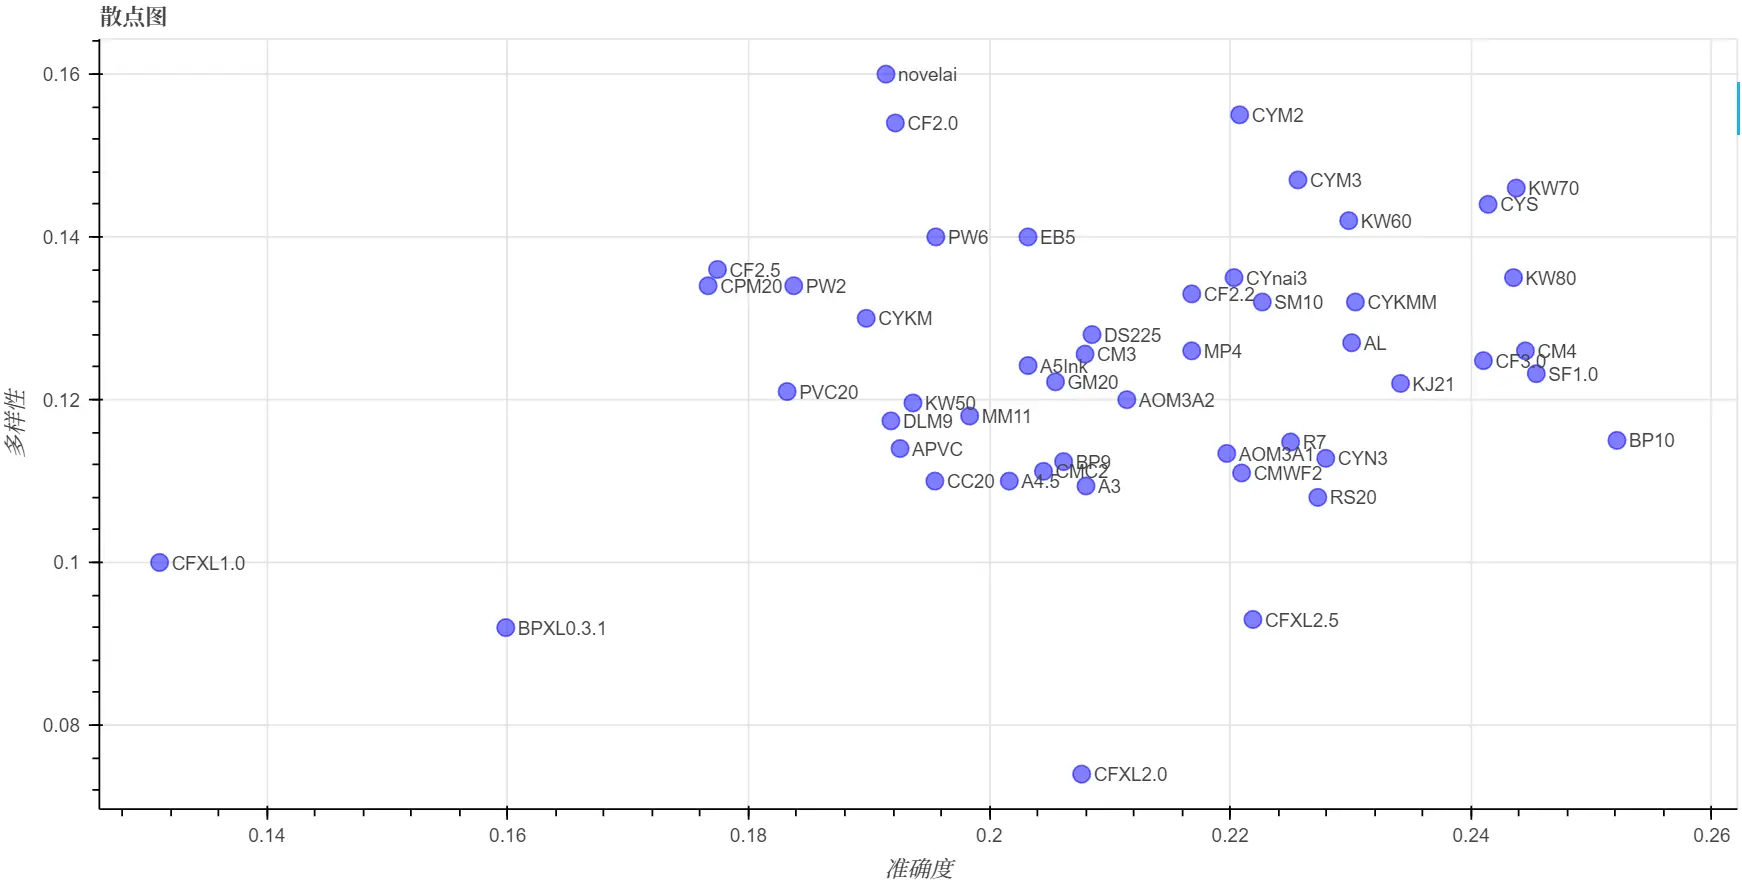
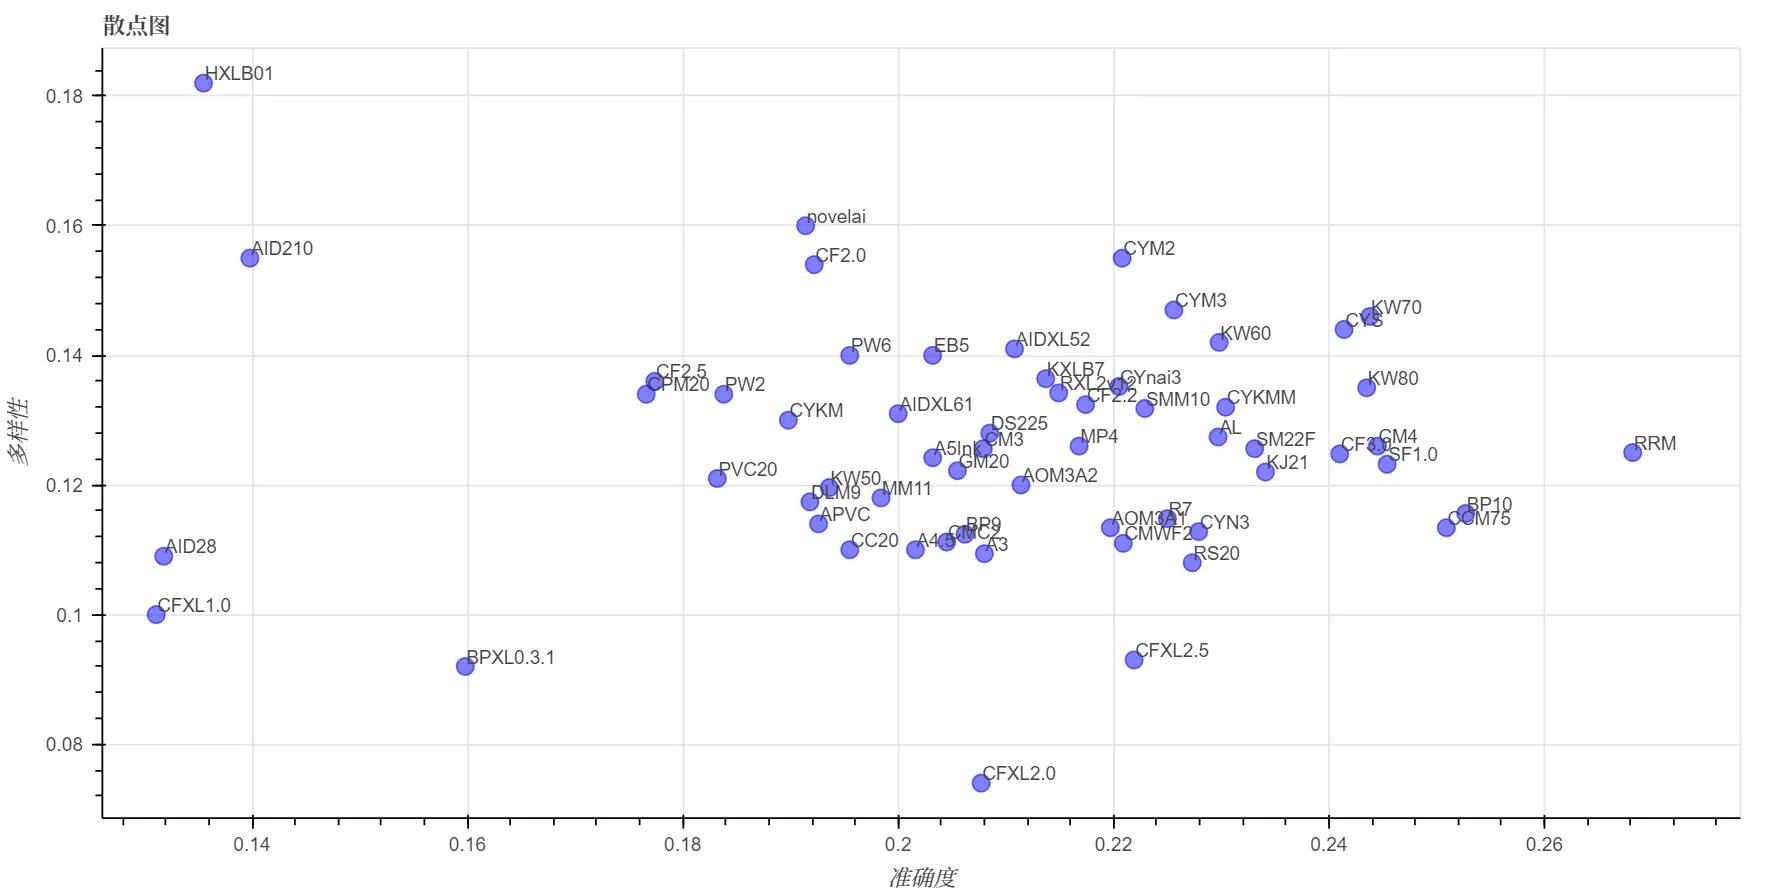
先更新1下指标

diff --git a/readme.md b/readme.md
@@ -26,48 +26,47 @@
 <sub>
 <sub>
 
-|                          | A5Ink     | AL        | AOM3A1    | BP10      | CF3.0     | CM4       | CYS       | KW80    | MM11   | SF1.0     | SM10      | novelai   | BPXL0.3.1   | CFXL2.5   |
-|:-------------------------|:----------|:----------|:----------|:----------|:----------|:----------|:----------|:--------|:-------|:----------|:----------|:----------|:------------|:----------|
-| 艺术破格                 | 0.183     | 0.161     | 0.112     | **0.228** | 0.219     | 0.179     | 0.152     | 0.125   | 0.098  | **0.237** | 0.174     | **0.259** | 0.156       | 0.214     |
-| 人物-动作                | 0.504     | 0.543     | 0.522     | **0.593** | **0.569** | 0.55      | **0.568** | 0.495   | 0.495  | 0.556     | 0.521     | 0.488     | 0.442       | 0.388     |
-| 人物-全身装饰            | 0.664     | 0.602     | 0.734     | **0.773** | **0.758** | 0.719     | **0.789** | 0.672   | 0.594  | 0.695     | 0.625     | 0.609     | 0.688       | 0.727     |
-| 人物-胸部                | 0.457     | 0.47      | **0.541** | **0.498** | **0.5**   | 0.451     | 0.471     | 0.417   | 0.439  | 0.455     | 0.443     | 0.478     | 0.304       | 0.328     |
-| 人物-衣装                | 0.758     | 0.784     | 0.79      | **0.811** | **0.809** | **0.809** | 0.78      | 0.718   | 0.774  | 0.792     | 0.782     | 0.755     | 0.753       | 0.752     |
-| 人物-摆位                | 0.555     | 0.55      | 0.53      | **0.652** | **0.665** | 0.578     | 0.608     | 0.568   | 0.49   | **0.662** | 0.53      | 0.598     | 0.575       | 0.555     |
-| 人物-耳朵                | 0.845     | 0.848     | 0.842     | 0.839     | **0.884** | **0.866** | 0.815     | 0.771   | 0.818  | **0.914** | 0.836     | 0.821     | 0.821       | 0.765     |
-| 人物-面部                | 0.502     | 0.49      | 0.476     | **0.578** | **0.592** | 0.527     | 0.481     | 0.485   | 0.423  | **0.53**  | 0.501     | 0.521     | 0.315       | 0.38      |
-| 人物-头发                | 0.647     | 0.62      | 0.594     | **0.693** | **0.693** | **0.648** | 0.567     | 0.56    | 0.586  | 0.61      | 0.624     | 0.647     | 0.553       | 0.52      |
-| 人物-头部饰品            | 0.751     | 0.757     | 0.719     | **0.831** | **0.831** | 0.794     | 0.786     | 0.739   | 0.748  | **0.836** | 0.803     | 0.71      | 0.611       | 0.612     |
-| 人物-类型                | 0.682     | 0.67      | 0.664     | **0.748** | **0.71**  | 0.672     | 0.692     | 0.631   | 0.626  | **0.702** | 0.678     | 0.659     | 0.673       | 0.648     |
-| 人物-下身装饰            | 0.71      | 0.726     | **0.749** | **0.76**  | **0.781** | 0.747     | 0.742     | 0.713   | 0.696  | 0.74      | 0.733     | 0.708     | 0.598       | 0.601     |
-| 人物-脖子                | 0.789     | 0.816     | 0.807     | **0.836** | **0.829** | **0.845** | 0.77      | 0.743   | 0.801  | 0.774     | 0.78      | 0.799     | 0.684       | 0.718     |
-| 人物-品控                | -         | -         | -         | -         | -         | -         | -         | -       | -      | -         | -         | -         | -           | -         |
-| 人物-鞋袜                | 0.707     | 0.726     | 0.71      | **0.763** | **0.774** | **0.763** | 0.738     | 0.717   | 0.699  | 0.757     | 0.737     | 0.691     | 0.653       | 0.614     |
-| 人物-上身装饰            | 0.755     | 0.798     | 0.765     | **0.819** | **0.812** | **0.799** | 0.775     | 0.743   | 0.78   | 0.786     | 0.766     | 0.73      | 0.698       | 0.704     |
-| 人文景观-建筑物     | 0.938     | **0.966** | 0.903     | 0.96      | 0.886     | 0.932     | 0.955     | 0.949   | 0.881  | **0.966** | 0.926     | 0.903     | 0.943       | **0.972** |
-| 人文景观-谷制品     | 0.688     | 0.713     | 0.713     | 0.825     | 0.8       | 0.787     | 0.938     | 0.787   | 0.738  | **1.0**   | 0.775     | 0.575     | **1.0**     | **1.0**   |
-| 人文景观-饮料       | 0.836     | 0.859     | 0.781     | 0.898     | 0.812     | 0.844     | **0.914** | 0.844   | 0.883  | **0.938** | 0.82      | 0.656     | **0.914**   | 0.852     |
-| 人文景观-水果       | 0.868     | 0.868     | 0.889     | 0.847     | 0.889     | 0.896     | **0.931** | 0.861   | 0.826  | **0.986** | 0.917     | 0.833     | **0.993**   | 0.917     |
-| 人文景观-主食       | 0.762     | 0.787     | 0.725     | 0.825     | 0.8       | 0.775     | **0.875** | 0.825   | 0.675  | 0.825     | 0.775     | 0.713     | **0.838**   | **1.0**   |
-| 人文景观-肉类 | 0.922     | 0.734     | 0.906     | 0.891     | 0.984     | 0.953     | 0.906     | 0.766   | 0.844  | **1.0**   | 0.906     | 0.781     | **1.0**     | **1.0**   |
-| 人文景观-零食   | 0.8       | 0.819     | 0.722     | **0.878** | 0.859     | 0.825     | 0.863     | 0.85    | 0.772  | **0.894** | 0.831     | 0.688     | **0.875**   | 0.806     |
-| 人文景观-蔬菜 | 0.938     | 0.906     | 0.896     | **0.969** | 0.938     | 0.885     | **0.979** | 0.938   | 0.844  | **0.979** | 0.958     | 0.958     | 0.875       | 0.667     |
-| 人文景观-室内       | 0.991     | **1.0**   | 0.991     | **1.0**   | 0.92      | 0.991     | **1.0**   | 0.973   | 0.964  | 0.991     | 0.973     | 0.946     | **1.0**     | **1.0**   |
-| 人文景观-室外       | **1.0**   | **1.0**   | 0.958     | **1.0**   | **1.0**   | **1.0**   | **1.0**   | **1.0** | 0.979  | **1.0**   | 0.979     | 0.969     | **1.0**     | 0.969     |
-| 构图-背景                | 0.861     | 0.885     | 0.803     | **0.933** | 0.894     | **0.904** | **0.899** | 0.846   | 0.817  | 0.827     | 0.885     | 0.808     | 0.856       | 0.851     |
-| 构图-打码方式            | 0.165     | 0.239     | **0.392** | 0.216     | 0.239     | 0.148     | **0.341** | 0.188   | 0.153  | 0.21      | 0.188     | 0.216     | 0.006       | **0.273** |
-| 构图-色彩                | 0.442     | 0.388     | 0.304     | **0.721** | **0.704** | 0.517     | 0.421     | 0.338   | 0.392  | 0.492     | 0.496     | 0.558     | 0.571       | **0.662** |
-| 构图-构图方式            | 0.331     | 0.412     | 0.35      | **0.475** | 0.406     | **0.45**  | **0.45**  | 0.331   | 0.287  | 0.406     | 0.388     | 0.312     | 0.125       | 0.3       |
-| 构图-制图特效            | 0.551     | 0.643     | 0.467     | **0.713** | **0.776** | 0.643     | 0.662     | 0.577   | 0.555  | **0.68**  | 0.544     | 0.636     | 0.518       | 0.607     |
-| 构图-图片类型            | **0.476** | 0.423     | 0.363     | 0.455     | 0.42      | 0.435     | 0.449     | 0.414   | 0.348  | 0.384     | **0.479** | **0.461** | 0.14        | 0.321     |
-| 构图-视角                | 0.738     | 0.7       | 0.667     | **0.808** | **0.8**   | 0.742     | 0.75      | 0.717   | 0.683  | **0.804** | 0.738     | 0.758     | 0.7         | 0.746     |
-| 构图-画风                | 0.276     | 0.172     | 0.24      | 0.344     | **0.354** | 0.25      | 0.286     | 0.24    | 0.167  | 0.219     | 0.255     | **0.375** | 0.307       | **0.38**  |
-| 物品                     | 0.831     | 0.803     | 0.844     | **0.925** | **0.922** | **0.938** | 0.866     | 0.791   | 0.812  | 0.881     | 0.894     | 0.841     | 0.844       | 0.766     |
-| 自然景观-花卉            | 0.895     | 0.92      | 0.855     | **0.989** | 0.943     | 0.972     | 0.949     | 0.889   | 0.949  | **0.983** | 0.943     | 0.761     | 0.974       | **1.0**   |
-| 自然景观-室外       | 0.943     | 0.953     | 0.927     | **1.0**   | 0.995     | 0.964     | 0.958     | 0.979   | 0.943  | 0.99      | 0.943     | 0.953     | **1.0**     | **1.0**   |
-| 自然景观-气象       | 0.891     | 0.922     | 0.87      | **0.974** | 0.87      | 0.885     | 0.906     | 0.885   | 0.885  | 0.901     | 0.87      | 0.807     | **1.0**     | **0.99**  |
-| 限制级-成年限定          | 0.318     | 0.296     | **0.572** | **0.418** | 0.41      | 0.233     | **0.432** | 0.277   | 0.257  | 0.383     | 0.279     | 0.333     | 0.083       | 0.37      |
-| 限制级-限制级            | 0.562     | 0.495     | **0.663** | 0.594     | **0.644** | 0.493     | **0.599** | 0.469   | 0.457  | 0.493     | 0.495     | 0.536     | 0.312       | 0.411     |
+|                          | A5Ink     | AL        | AOM3A1    | BP10      | CF3.0     | CM4       | CYS       | KW70      | RRM       | SF1.0     | novelai   | BPXL0.3.1   | CFXL2.5   |
+|:-------------------------|:----------|:----------|:----------|:----------|:----------|:----------|:----------|:----------|:----------|:----------|:----------|:------------|:----------|
+| 艺术破格                 | 0.183     | 0.161     | 0.112     | **0.228** | 0.219     | 0.179     | 0.152     | 0.147     | 0.156     | **0.237** | **0.259** | 0.156       | 0.214     |
+| 人物-动作                | 0.504     | 0.543     | 0.522     | **0.593** | **0.569** | 0.55      | 0.568     | 0.506     | **0.574** | 0.556     | 0.488     | 0.442       | 0.388     |
+| 人物-全身装饰            | 0.664     | 0.602     | 0.734     | **0.773** | 0.758     | 0.719     | **0.789** | **0.773** | **0.805** | 0.695     | 0.609     | 0.688       | 0.727     |
+| 人物-胸部                | 0.457     | 0.47      | **0.541** | **0.498** | **0.5**   | 0.451     | 0.471     | 0.39      | 0.464     | 0.455     | 0.478     | 0.304       | 0.328     |
+| 人物-衣装                | 0.758     | 0.784     | 0.79      | **0.811** | **0.809** | **0.809** | 0.78      | 0.725     | 0.808     | 0.792     | 0.755     | 0.753       | 0.752     |
+| 人物-摆位                | 0.555     | 0.55      | 0.53      | **0.652** | **0.665** | 0.578     | 0.608     | 0.57      | 0.64      | **0.662** | 0.598     | 0.575       | 0.555     |
+| 人物-耳朵                | 0.845     | 0.848     | 0.842     | 0.839     | **0.884** | **0.866** | 0.815     | 0.815     | 0.848     | **0.914** | 0.821     | 0.821       | 0.765     |
+| 人物-面部                | 0.502     | 0.49      | 0.476     | **0.578** | **0.592** | 0.527     | 0.481     | 0.497     | **0.542** | 0.53      | 0.521     | 0.315       | 0.38      |
+| 人物-头发                | 0.647     | 0.62      | 0.594     | **0.693** | **0.693** | **0.648** | 0.567     | 0.558     | 0.628     | 0.61      | 0.647     | 0.553       | 0.52      |
+| 人物-头部饰品            | 0.751     | 0.757     | 0.719     | **0.831** | **0.831** | 0.794     | 0.786     | 0.743     | 0.788     | **0.836** | 0.71      | 0.611       | 0.612     |
+| 人物-类型                | 0.682     | 0.67      | 0.664     | **0.748** | **0.71**  | 0.672     | 0.692     | 0.615     | **0.714** | 0.702     | 0.659     | 0.673       | 0.648     |
+| 人物-下身装饰            | 0.71      | 0.726     | 0.749     | **0.76**  | **0.781** | 0.747     | 0.742     | 0.698     | **0.755** | 0.74      | 0.708     | 0.598       | 0.601     |
+| 人物-脖子                | 0.789     | 0.816     | 0.807     | **0.836** | **0.829** | **0.845** | 0.77      | 0.743     | 0.811     | 0.774     | 0.799     | 0.684       | 0.718     |
+| 人物-鞋袜                | 0.707     | 0.726     | 0.71      | **0.763** | **0.774** | **0.763** | 0.738     | 0.729     | **0.777** | 0.757     | 0.691     | 0.653       | 0.614     |
+| 人物-上身装饰            | 0.755     | 0.798     | 0.765     | **0.819** | **0.812** | **0.799** | 0.775     | 0.724     | 0.796     | 0.786     | 0.73      | 0.698       | 0.704     |
+| 人文景观-建筑物     | 0.938     | **0.966** | 0.903     | 0.96      | 0.886     | 0.932     | 0.955     | 0.943     | 0.96      | **0.966** | 0.903     | 0.943       | **0.972** |
+| 人文景观-谷制品     | 0.688     | 0.713     | 0.713     | 0.825     | 0.8       | 0.787     | 0.938     | 0.825     | 0.9       | **1.0**   | 0.575     | **1.0**     | **1.0**   |
+| 人文景观-饮料       | 0.836     | 0.859     | 0.781     | 0.898     | 0.812     | 0.844     | **0.914** | 0.844     | **0.914** | **0.938** | 0.656     | **0.914**   | 0.852     |
+| 人文景观-水果       | 0.868     | 0.868     | 0.889     | 0.847     | 0.889     | 0.896     | **0.931** | 0.854     | 0.917     | **0.986** | 0.833     | **0.993**   | 0.917     |
+| 人文景观-主食       | 0.762     | 0.787     | 0.725     | 0.825     | 0.8       | 0.775     | **0.875** | 0.838     | **0.912** | 0.825     | 0.713     | 0.838       | **1.0**   |
+| 人文景观-肉类 | 0.922     | 0.734     | 0.906     | 0.891     | 0.984     | 0.953     | 0.906     | 0.828     | 0.891     | **1.0**   | 0.781     | **1.0**     | **1.0**   |
+| 人文景观-零食   | 0.8       | 0.819     | 0.722     | **0.878** | 0.859     | 0.825     | 0.863     | 0.838     | **0.9**   | **0.894** | 0.688     | 0.875       | 0.806     |
+| 人文景观-蔬菜 | 0.938     | 0.906     | 0.896     | 0.969     | 0.938     | 0.885     | **0.979** | 0.948     | **0.979** | **0.979** | 0.958     | 0.875       | 0.667     |
+| 人文景观-室内       | 0.991     | **1.0**   | 0.991     | **1.0**   | 0.92      | 0.991     | **1.0**   | 0.973     | 0.973     | 0.991     | 0.946     | **1.0**     | **1.0**   |
+| 人文景观-室外       | **1.0**   | **1.0**   | 0.958     | **1.0**   | **1.0**   | **1.0**   | **1.0**   | **1.0**   | **1.0**   | **1.0**   | 0.969     | **1.0**     | 0.969     |
+| 构图-背景                | 0.861     | 0.885     | 0.803     | **0.933** | 0.894     | **0.904** | 0.899     | 0.856     | **0.913** | 0.827     | 0.808     | 0.856       | 0.851     |
+| 构图-打码方式            | 0.165     | 0.239     | **0.392** | 0.216     | 0.239     | 0.148     | **0.341** | 0.165     | 0.25      | 0.21      | 0.216     | 0.006       | **0.273** |
+| 构图-色彩                | 0.442     | 0.388     | 0.304     | **0.721** | **0.704** | 0.517     | 0.421     | 0.358     | 0.554     | 0.492     | 0.558     | 0.571       | **0.662** |
+| 构图-构图方式            | 0.331     | 0.412     | 0.35      | **0.475** | 0.406     | **0.45**  | **0.45**  | 0.312     | 0.444     | 0.406     | 0.312     | 0.125       | 0.3       |
+| 构图-制图特效            | 0.551     | 0.643     | 0.467     | **0.713** | **0.776** | 0.643     | 0.662     | 0.592     | 0.676     | **0.68**  | 0.636     | 0.518       | 0.607     |
+| 构图-图片类型            | **0.476** | 0.423     | 0.363     | 0.455     | 0.42      | 0.435     | 0.449     | **0.47**  | **0.476** | 0.384     | 0.461     | 0.14        | 0.321     |
+| 构图-视角                | 0.738     | 0.7       | 0.667     | **0.808** | 0.8       | 0.742     | 0.75      | 0.8       | **0.833** | **0.804** | 0.758     | 0.7         | 0.746     |
+| 构图-画风                | 0.276     | 0.172     | 0.24      | 0.344     | **0.354** | 0.25      | 0.286     | 0.271     | 0.271     | 0.219     | **0.375** | 0.307       | **0.38**  |
+| 物品                     | 0.831     | 0.803     | 0.844     | **0.925** | **0.922** | **0.938** | 0.866     | 0.772     | 0.894     | 0.881     | 0.841     | 0.844       | 0.766     |
+| 自然景观-花卉            | 0.895     | 0.92      | 0.855     | **0.989** | 0.943     | 0.972     | 0.949     | 0.852     | 0.957     | **0.983** | 0.761     | 0.974       | **1.0**   |
+| 自然景观-室外       | 0.943     | 0.953     | 0.927     | **1.0**   | 0.995     | 0.964     | 0.958     | 0.969     | 0.99      | 0.99      | 0.953     | **1.0**     | **1.0**   |
+| 自然景观-气象       | 0.891     | 0.922     | 0.87      | **0.974** | 0.87      | 0.885     | 0.906     | 0.891     | 0.901     | 0.901     | 0.807     | **1.0**     | **0.99**  |
+| 限制级-成年限定          | 0.318     | 0.296     | **0.572** | **0.418** | 0.41      | 0.233     | **0.432** | 0.266     | 0.385     | 0.383     | 0.333     | 0.083       | 0.37      |
+| 限制级-限制级            | 0.562     | 0.495     | **0.663** | 0.594     | **0.644** | 0.493     | 0.599     | 0.45      | **0.608** | 0.493     | 0.536     | 0.312       | 0.411     |
 
 </sub>
 </sub>
@@ -78,7 +77,7 @@
 
 可以看出: 
 
-- 表现比较优秀的模型是blue_pencil_v10、Counterfeit-3.0、sweetfruit_melon。
+- 表现比较优秀的模型是blue_pencil_v10、Counterfeit-3.0、rimochan_random_mix。
 
 - XL模型在1些无关紧要的方面有优势，但总的来说并没有比原版模型更准确。
 
@@ -94,20 +93,20 @@
 <sub>
 <sub>
 
-|     |   A5Ink |    AL |   AOM3A1 | BP10      | CF3.0     | CM4       | CYS       | KW80      |   MM11 | SF1.0     |   SM10 |   novelai |   BPXL0.3.1 |   CFXL2.5 |
-|----:|--------:|------:|---------:|:----------|:----------|:----------|:----------|:----------|-------:|:----------|-------:|----------:|------------:|----------:|
-|   2 |   0.466 | 0.471 |    0.464 | **0.514** | **0.502** | 0.481     | **0.49**  | 0.452     |  0.421 | 0.482     |  0.478 |     0.452 |       0.392 |     0.434 |
-|   4 |   0.421 | 0.431 |    0.428 | **0.474** | **0.466** | 0.451     | 0.449     | 0.418     |  0.406 | **0.461** |  0.432 |     0.387 |       0.346 |     0.389 |
-|   8 |   0.357 | 0.388 |    0.367 | **0.412** | **0.405** | 0.392     | 0.385     | 0.386     |  0.34  | **0.398** |  0.369 |     0.33  |       0.279 |     0.334 |
-|  16 |   0.282 | 0.305 |    0.293 | **0.335** | **0.331** | **0.328** | 0.303     | 0.318     |  0.259 | 0.315     |  0.298 |     0.257 |       0.224 |     0.281 |
-|  32 |   0.205 | 0.23  |    0.22  | **0.252** | 0.242     | **0.244** | 0.241     | **0.244** |  0.198 | **0.245** |  0.223 |     0.191 |       0.16  |     0.222 |
-|  64 |   0.153 | 0.172 |    0.168 | **0.188** | **0.185** | **0.182** | **0.182** | 0.18      |  0.149 | 0.178     |  0.16  |     0.14  |       0.112 |     0.171 |
-| 128 |   0.118 | 0.131 |    0.129 | **0.144** | **0.142** | 0.138     | **0.139** | 0.136     |  0.114 | 0.136     |  0.125 |     0.111 |       0.085 |     0.137 |
+|     |   A5Ink |    AL |   AOM3A1 | BP10      | CF3.0     |   CM4 | CYS      |   KW70 | RRM       | SF1.0     |   novelai |   BPXL0.3.1 |   CFXL2.5 |
+|----:|--------:|------:|---------:|:----------|:----------|------:|:---------|-------:|:----------|:----------|----------:|------------:|----------:|
+|   2 |   0.466 | 0.471 |    0.464 | **0.514** | **0.502** | 0.481 | **0.49** |  0.454 | 0.485     | 0.482     |     0.452 |       0.392 |     0.434 |
+|   4 |   0.421 | 0.431 |    0.428 | **0.474** | **0.466** | 0.451 | 0.449    |  0.43  | **0.466** | 0.461     |     0.387 |       0.346 |     0.389 |
+|   8 |   0.357 | 0.388 |    0.367 | **0.412** | **0.405** | 0.392 | 0.385    |  0.392 | **0.416** | 0.398     |     0.33  |       0.279 |     0.334 |
+|  16 |   0.282 | 0.305 |    0.293 | **0.335** | **0.331** | 0.328 | 0.303    |  0.318 | **0.343** | 0.315     |     0.257 |       0.224 |     0.281 |
+|  32 |   0.205 | 0.23  |    0.22  | **0.252** | 0.242     | 0.244 | 0.241    |  0.244 | **0.268** | **0.245** |     0.191 |       0.16  |     0.222 |
+|  64 |   0.153 | 0.172 |    0.168 | **0.188** | **0.185** | 0.182 | 0.182    |  0.183 | **0.199** | 0.178     |     0.14  |       0.112 |     0.171 |
+| 128 |   0.118 | 0.131 |    0.129 | **0.144** | **0.142** | 0.138 | 0.139    |  0.138 | **0.152** | 0.136     |     0.111 |       0.085 |     0.137 |
 
 </sub>
 </sub>
 
-看来多标签的标准下，表现最优秀的还是blue_pencil_v10、Counterfeit-3.0、sweetfruit_melon。
+看来多标签的标准下，表现最优秀的还是blue_pencil_v10、Counterfeit-3.0、rimochan_random_mix。
 
 ## 多标签测试-多样性
 
@@ -118,15 +117,15 @@
 <sub>
 <sub>
 
-|     |   A5Ink |    AL |   AOM3A1 |   BP10 |   CF3.0 |   CM4 | CYS       | KW80      | MM11      |   SF1.0 | SM10      | novelai   |   BPXL0.3.1 |   CFXL2.5 |
-|----:|--------:|------:|---------:|-------:|--------:|------:|:----------|:----------|:----------|--------:|:----------|:----------|------------:|----------:|
-|   2 |   0.142 | 0.138 |    0.141 |  0.126 |   0.132 | 0.141 | 0.141     | 0.133     | **0.143** |   0.136 | **0.145** | **0.173** |       0.104 |     0.095 |
-|   4 |   0.13  | 0.128 |    0.128 |  0.121 |   0.126 | 0.133 | **0.141** | 0.131     | 0.126     |   0.131 | **0.14**  | **0.168** |       0.091 |     0.092 |
-|   8 |   0.128 | 0.128 |    0.122 |  0.114 |   0.124 | 0.126 | **0.142** | 0.128     | 0.125     |   0.123 | **0.134** | **0.164** |       0.097 |     0.094 |
-|  16 |   0.13  | 0.123 |    0.118 |  0.115 |   0.125 | 0.12  | **0.144** | 0.124     | 0.121     |   0.125 | **0.131** | **0.165** |       0.093 |     0.096 |
-|  32 |   0.124 | 0.127 |    0.114 |  0.115 |   0.125 | 0.125 | **0.144** | **0.135** | 0.118     |   0.124 | 0.132     | **0.16**  |       0.092 |     0.093 |
-|  64 |   0.132 | 0.131 |    0.112 |  0.121 |   0.136 | 0.129 | **0.155** | **0.145** | 0.128     |   0.139 | 0.141     | **0.162** |       0.095 |     0.098 |
-| 128 |   0.127 | 0.132 |    0.11  |  0.125 |   0.142 | 0.137 | **0.159** | **0.148** | 0.126     |   0.143 | 0.139     | **0.156** |       0.098 |     0.099 |
+|     | A5Ink     |    AL | AOM3A1    |   BP10 |   CF3.0 | CM4       | CYS       | KW70      |   RRM |   SF1.0 | novelai   |   BPXL0.3.1 |   CFXL2.5 |
+|----:|:----------|------:|:----------|-------:|--------:|:----------|:----------|:----------|------:|--------:|:----------|------------:|----------:|
+|   2 | **0.142** | 0.138 | **0.141** |  0.126 |   0.132 | **0.141** | **0.141** | 0.139     | 0.134 |   0.136 | **0.173** |       0.104 |     0.095 |
+|   4 | 0.13      | 0.128 | 0.128     |  0.121 |   0.126 | 0.133     | **0.141** | **0.145** | 0.131 |   0.131 | **0.168** |       0.091 |     0.092 |
+|   8 | 0.128     | 0.128 | 0.122     |  0.114 |   0.124 | 0.126     | **0.142** | **0.133** | 0.128 |   0.123 | **0.164** |       0.097 |     0.094 |
+|  16 | 0.13      | 0.123 | 0.118     |  0.115 |   0.125 | 0.12      | **0.144** | **0.136** | 0.123 |   0.125 | **0.165** |       0.093 |     0.096 |
+|  32 | 0.124     | 0.127 | 0.114     |  0.115 |   0.125 | 0.125     | **0.144** | **0.146** | 0.125 |   0.124 | **0.16**  |       0.092 |     0.093 |
+|  64 | 0.132     | 0.131 | 0.112     |  0.121 |   0.136 | 0.129     | **0.155** | **0.151** | 0.141 |   0.139 | **0.162** |       0.095 |     0.098 |
+| 128 | 0.127     | 0.132 | 0.11      |  0.125 |   0.142 | 0.137     | **0.159** | **0.162** | 0.143 |   0.143 | **0.156** |       0.098 |     0.099 |
 
 </sub>
 </sub>
